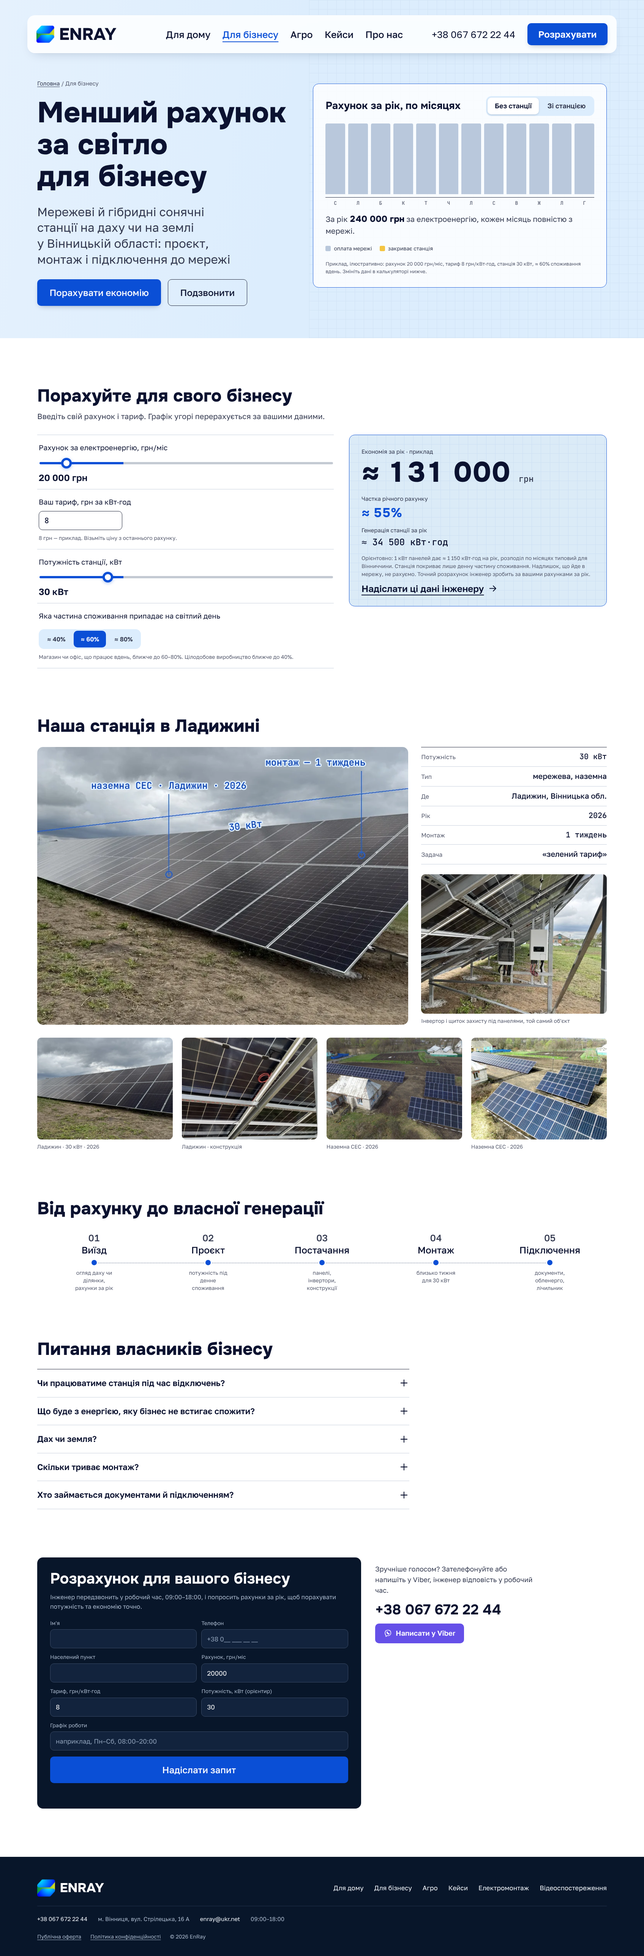
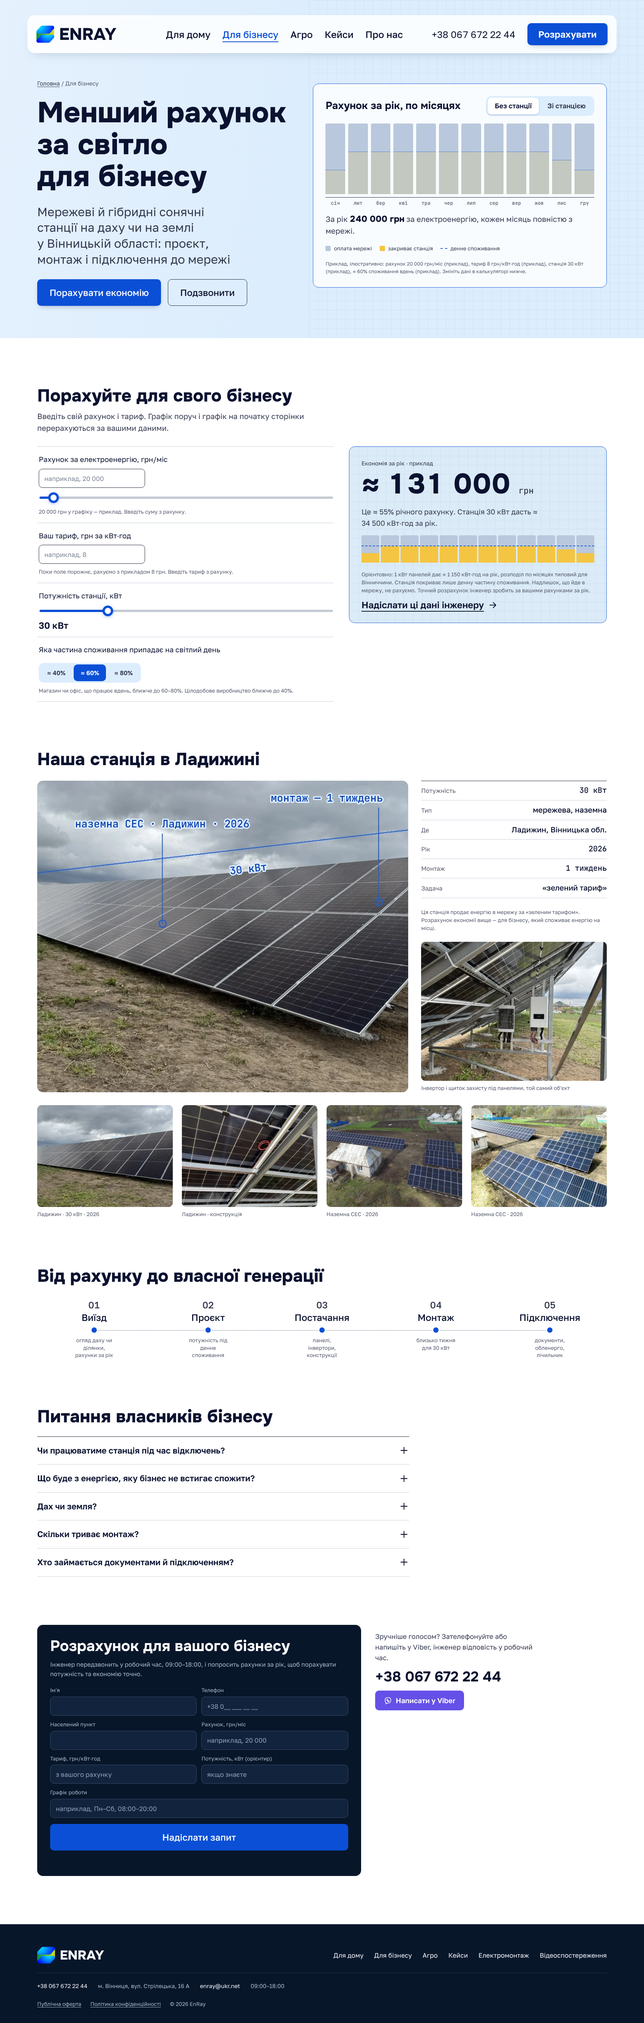
Apply finish-review fixes to Бізнес page
Form receives only visitor-entered values, no hidden tariff fallback,
per-field example labelling, typed bill input synced with slider,
summary built from capped months, daytime-consumption cap line and
station-share ghost, live mini chart beside the calculator, 3-letter
month axis, green-tariff caveat on the Ladyzhyn case, slider fill
follows the thumb, comma-friendly numeric fields.

Claude-Session: https://claude.ai/code/session_01KGfZvnn7nUXhb1RoE8ibfu

Changed region(s): [[0.0, 0.0, 1.0, 0.9946], [0.5625, 0.2176, 0.9375, 0.3108], [0.5625, 0.8081, 0.7812, 0.8702]]

diff --git a/enray/assets/js/scenario.js b/enray/assets/js/scenario.js
@@ -16,6 +16,13 @@
     });
   }
 
+  // Заливка повзунків до положення ручки
+  var fillRange = function (r) { r.style.setProperty('--p', (r.value - r.min) / (r.max - r.min) * 100 + '%'); };
+  document.querySelectorAll('input[type=range]').forEach(function (r) {
+    fillRange(r);
+    r.addEventListener('input', function () { fillRange(r); });
+  });
+
   /* ---------- Дім: доба з відключеннями (приклад графіка, ілюстративно) ---------- */
   var cellsBox = document.getElementById('day-cells');
   if (cellsBox) {
@@ -73,68 +80,115 @@
   var cols = document.getElementById('bill-cols');
   if (cols) {
     var MONTHS = ['Січень', 'Лютий', 'Березень', 'Квітень', 'Травень', 'Червень', 'Липень', 'Серпень', 'Вересень', 'Жовтень', 'Листопад', 'Грудень'];
+    var GEN = ['січня', 'лютого', 'березня', 'квітня', 'травня', 'червня', 'липня', 'серпня', 'вересня', 'жовтня', 'листопада', 'грудня'];
+    var ACC = ['січень', 'лютий', 'березень', 'квітень', 'травень', 'червень', 'липень', 'серпень', 'вересень', 'жовтень', 'листопад', 'грудень'];
     // Типовий розподіл річної генерації по місяцях для Вінниччини (сума = 1)
     var F = [0.025, 0.045, 0.075, 0.11, 0.125, 0.13, 0.14, 0.125, 0.095, 0.07, 0.035, 0.025];
-    var YIELD = 1150;
+    var YIELD = 1150, EX_BILL = 20000, EX_TARIFF = 8;
     var chart = document.querySelector('.bill-chart');
-    var sumOut = document.getElementById('bill-summary');
-    var noteOut = document.getElementById('bill-note');
-    var tbody = document.querySelector('#bill-table tbody');
+    var mini = document.getElementById('bill-mini');
     var el = function (id) { return document.getElementById(id); };
-    var bBill = el('b-bill'), bTariff = el('b-tariff'), bKw = el('b-kw');
-    var mode = 'off', touched = false;
+    var bBill = el('b-bill'), bBillNum = el('b-bill-num'), bTariff = el('b-tariff'), bKw = el('b-kw');
+    var mode = 'off';
+    var mine = { bill: false, tariff: false, kw: false, share: false };
+    var state = { bill: EX_BILL, tariff: EX_TARIFF };
 
-    for (var m = 0; m < 12; m++) {
-      var col = document.createElement('span');
-      col.className = 'bcol';
-      col.style.setProperty('--i', m);
-      col.innerHTML = '<span class="bcol-sun"></span>';
-      cols.appendChild(col);
-    }
+    var build = function (box) {
+      for (var m = 0; m < 12; m++) {
+        var col = document.createElement('span');
+        col.className = 'bcol';
+        col.style.setProperty('--i', m);
+        col.innerHTML = '<span class="bcol-ghost"></span><span class="bcol-sun"></span>';
+        box.appendChild(col);
+      }
+      var cap = document.createElement('span');
+      cap.className = 'cap-line';
+      box.appendChild(cap);
+    };
+    build(cols); if (mini) build(mini);
 
-    var round = function (n, s) { return Math.round(n / s) * s; };
+    var round = function (n, st) { return Math.round(n / st) * st; };
+    var num = function (v) { return Number(String(v).replace(/\s/g, '').replace(',', '.')); };
+
     var compute = function () {
-      var bill = Number(bBill.value);
-      var tariff = Math.max(0.5, Number(String(bTariff.value).replace(',', '.')) || 8);
       var kw = Number(bKw.value);
       var share = Number((document.querySelector('input[name=share]:checked') || {}).value || 0.6);
-      var cons = bill / tariff;                 // кВт·год на місяць
+      var cap = state.bill / state.tariff * share;            // денне споживання, кВт·год/міс
       var months = F.map(function (f) {
         var gen = kw * YIELD * f;
-        var used = Math.min(gen, cons * share);
-        return { gen: gen, save: used * tariff };
+        return { gen: gen, save: Math.min(gen, cap) * state.tariff, capped: gen >= cap };
       });
-      var save = months.reduce(function (s, x) { return s + x.save; }, 0);
-      return { bill: bill, tariff: tariff, kw: kw, share: share, months: months, save: save, gen: kw * YIELD };
+      var save = months.reduce(function (a, x) { return a + x.save; }, 0);
+      return { bill: state.bill, tariff: state.tariff, kw: kw, share: share, months: months, save: save, gen: kw * YIELD };
+    };
+
+    var paint = function (box, r, on) {
+      for (var i = 0; i < 12; i++) {
+        var p = Math.min(100, r.months[i].save / r.bill * 100);
+        box.children[i].style.setProperty('--sun', (on ? p : 0) + '%');
+        box.children[i].style.setProperty('--ghost', (on ? 0 : p) + '%');
+      }
+      box.style.setProperty('--cap', (r.share * 100) + '%');
+      box.classList.toggle('is-on', on);
+    };
+
+    var range = function (r) {
+      var idx = r.months.map(function (x, i) { return x.capped ? i : -1; }).filter(function (i) { return i >= 0; });
+      if (!idx.length) return '';
+      return idx.length === 1 ? 'один місяць (' + ACC[idx[0]] + ')' : 'з ' + GEN[idx[0]] + ' по ' + ACC[idx[idx.length - 1]];
     };
 
     var render = function () {
       var r = compute();
-      el('b-bill-out').textContent = fmt.format(r.bill) + ' грн';
-      el('b-kw-out').textContent = r.kw + ' кВт';
+      var pct = Math.round(r.save / (r.bill * 12) * 100);
+      paint(cols, r, mode === 'on');
+      if (mini) paint(mini, r, true);
       el('b-save').textContent = '≈ ' + fmt.format(round(r.save, 1000));
-      el('b-share-out').textContent = '≈ ' + Math.round(r.save / (r.bill * 12) * 100) + '%';
-      el('b-gen').textContent = '≈ ' + fmt.format(round(r.gen, 100)) + ' кВт·год';
-      var pct = function (v) { return Math.min(100, v / r.bill * 100); };
-      for (var i = 0; i < 12; i++) cols.children[i].style.setProperty('--sun', (mode === 'on' ? pct(r.months[i].save) : 0) + '%');
-      sumOut.innerHTML = mode === 'off'
+      el('b-save-label').textContent = 'Економія за рік · ' + (mine.bill && mine.tariff ? 'за вашими даними' : 'приклад');
+      el('b-sentence').textContent = 'Це ≈ ' + pct + '% річного рахунку. Станція ' + r.kw + ' кВт дасть ≈ ' + fmt.format(round(r.gen, 100)) + ' кВт·год за рік.';
+      el('b-kw-out').textContent = r.kw + ' кВт';
+      var rg = range(r);
+      el('bill-summary').innerHTML = mode === 'off'
         ? 'За рік <b>' + fmt.format(round(r.bill * 12, 1000)) + ' грн</b> за електроенергію, кожен місяць повністю з мережі.'
-        : 'Станція закриває <b>≈ ' + fmt.format(round(r.save, 1000)) + ' грн</b> за рік, найбільше в теплі місяці, коли сонця більше.';
-      noteOut.textContent = (touched ? 'За вашими даними: ' : 'Приклад, ілюстративно: ') + 'рахунок ' + fmt.format(r.bill) + ' грн/міс, тариф ' +
-        String(r.tariff).replace('.', ',') + ' грн/кВт·год, станція ' + r.kw + ' кВт, ≈ ' + Math.round(r.share * 100) +
-        '% споживання вдень. Змініть дані в калькуляторі нижче.';
-      tbody.innerHTML = r.months.map(function (x, i) {
+        : 'Станція закриває <b>≈ ' + fmt.format(round(r.save, 1000)) + ' грн</b> за рік' +
+          (rg ? ': ' + rg + ' — всю денну частину споживання, взимку менше.' : ', найбільше влітку.');
+      var parts = [
+        'рахунок ' + fmt.format(r.bill) + ' грн/міс' + (mine.bill ? '' : ' (приклад)'),
+        'тариф ' + String(r.tariff).replace('.', ',') + ' грн/кВт·год' + (mine.tariff ? '' : ' (приклад)'),
+        'станція ' + r.kw + ' кВт' + (mine.kw ? '' : ' (приклад)'),
+        '≈ ' + Math.round(r.share * 100) + '% споживання вдень' + (mine.share ? '' : ' (приклад)')
+      ];
+      var any = mine.bill || mine.tariff || mine.kw || mine.share;
+      el('bill-note').textContent = (any ? 'Розрахунок: ' : 'Приклад, ілюстративно: ') + parts.join(', ') + '. Змініть дані в калькуляторі нижче.';
+      document.querySelector('#bill-table tbody').innerHTML = r.months.map(function (x, i) {
         return '<tr><td>' + MONTHS[i] + '</td><td>' + fmt.format(round(r.bill, 10)) + '</td><td>' + fmt.format(round(r.bill - x.save, 10)) + '</td></tr>';
       }).join('');
-      var set = function (id, v) { var f = el(id); if (f) f.value = v; };
-      set('f-bill', r.bill); set('f-tariff', String(r.tariff).replace('.', ',')); set('f-kw', r.kw);
+      var set = function (id, ok, v) { var f = el(id); if (f && ok) f.value = v; };
+      set('f-bill', mine.bill, r.bill); set('f-tariff', mine.tariff, String(r.tariff).replace('.', ',')); set('f-kw', mine.kw, r.kw);
     };
 
+    var setBill = function (v, from) {
+      if (!(v >= 1000)) return false;
+      state.bill = v; mine.bill = true;
+      if (from !== 'range') { bBill.value = Math.min(Number(bBill.max), Math.max(Number(bBill.min), v)); fillRange(bBill); }
+      if (from !== 'num') bBillNum.value = v;
+      el('b-bill-hint').textContent = 'Ваш рахунок: ' + fmt.format(v) + ' грн на місяць.';
+      return true;
+    };
+    bBill.addEventListener('input', function () { setBill(Number(bBill.value), 'range'); render(); });
+    bBillNum.addEventListener('input', function () { if (setBill(num(bBillNum.value), 'num')) render(); });
+    bTariff.addEventListener('input', function () {
+      var v = num(bTariff.value);
+      var hint = el('b-tariff-hint');
+      if (bTariff.value === '') { mine.tariff = false; state.tariff = EX_TARIFF; hint.textContent = 'Поки поле порожнє, рахуємо з прикладом 8 грн. Введіть тариф з рахунку.'; render(); return; }
+      if (!(v >= 1 && v <= 30)) { hint.textContent = 'Введіть тариф від 1 до 30 грн за кВт·год. Поки рахуємо з останнім правильним значенням.'; return; }
+      state.tariff = v; mine.tariff = true; hint.textContent = 'Ваш тариф: ' + String(v).replace('.', ',') + ' грн за кВт·год.'; render();
+    });
+    bKw.addEventListener('input', function () { mine.kw = true; render(); });
+    document.querySelectorAll('input[name=share]').forEach(function (i) { i.addEventListener('change', function () { mine.share = true; render(); }); });
     bindToggle(function (md) { mode = md; chart.dataset.mode = md; render(); });
-    [bBill, bTariff, bKw].forEach(function (i) { i.addEventListener('input', function () { touched = true; render(); }); });
-    document.querySelectorAll('input[name=share]').forEach(function (i) { i.addEventListener('change', function () { touched = true; render(); }); });
     if (form) form.addEventListener('enray:reset', render);
-    if (reduce) chart.classList.add('no-motion');
+    if (reduce) { chart.classList.add('no-motion'); if (mini) mini.classList.add('no-motion'); }
     render();
   }
 })();

diff --git a/enray/biz/index.html b/enray/biz/index.html
@@ -74,12 +74,13 @@
       </div>
       <div class="bill-chart" data-mode="off" aria-hidden="true">
         <div class="bill-cols" id="bill-cols"></div>
-        <div class="bill-scale"><span>С</span><span>Л</span><span>Б</span><span>К</span><span>Т</span><span>Ч</span><span>Л</span><span>С</span><span>В</span><span>Ж</span><span>Л</span><span>Г</span></div>
+        <div class="bill-scale"><span data-s="С">січ</span><span data-s="Л">лют</span><span data-s="Б">бер</span><span data-s="К">кві</span><span data-s="Т">тра</span><span data-s="Ч">чер</span><span data-s="Л">лип</span><span data-s="С">сер</span><span data-s="В">вер</span><span data-s="Ж">жов</span><span data-s="Л">лис</span><span data-s="Г">гру</span></div>
       </div>
       <p class="day-summary" id="bill-summary" aria-live="polite"></p>
       <ul class="legend" aria-hidden="true">
         <li><i class="sw sw--grid"></i>оплата мережі</li>
         <li><i class="sw sw--sun"></i>закриває станція</li>
+        <li><i class="sw sw--cap"></i>денне споживання</li>
       </ul>
       <table class="sr-only" id="bill-table">
         <caption>Рахунок по місяцях без станції і зі станцією, грн</caption>
@@ -93,19 +94,20 @@
   <section class="section biz-calc" id="kalkulyator" aria-labelledby="calc-h">
     <div class="rezerv-head">
       <h2 id="calc-h">Порахуйте для свого бізнесу</h2>
-      <p class="lead">Введіть свій рахунок і тариф. Графік угорі перерахується за вашими даними.</p>
+      <p class="lead">Введіть свій рахунок і тариф. Графік поруч і графік на початку сторінки перерахуються за вашими даними.</p>
     </div>
     <div class="rezerv-grid">
       <div class="biz-inputs">
         <div class="bi-row">
-          <label for="b-bill">Рахунок за електроенергію, грн/міс</label>
-          <input id="b-bill" type="range" min="5000" max="200000" step="1000" value="20000">
-          <output for="b-bill" id="b-bill-out" class="bi-val">20 000 грн</output>
+          <label for="b-bill-num">Рахунок за електроенергію, грн/міс</label>
+          <input id="b-bill-num" class="bi-num" type="text" placeholder="наприклад, 20 000" inputmode="numeric" autocomplete="off">
+          <input id="b-bill" type="range" min="5000" max="500000" step="5000" value="20000" aria-label="Рахунок, повзунок">
+          <p class="bi-hint" id="b-bill-hint">20 000 грн у графіку — приклад. Введіть суму з рахунку.</p>
         </div>
         <div class="bi-row">
           <label for="b-tariff">Ваш тариф, грн за кВт·год</label>
-          <input id="b-tariff" class="bi-num" type="number" min="1" max="30" step="0.01" value="8" inputmode="decimal">
-          <p class="bi-hint">8 грн — приклад. Візьміть ціну з останнього рахунку.</p>
+          <input id="b-tariff" class="bi-num" type="text" placeholder="наприклад, 8" inputmode="decimal" autocomplete="off">
+          <p class="bi-hint" id="b-tariff-hint">Поки поле порожнє, рахуємо з прикладом 8 грн. Введіть тариф з рахунку.</p>
         </div>
         <div class="bi-row">
           <label for="b-kw">Потужність станції, кВт</label>
@@ -123,12 +125,12 @@
         </fieldset>
       </div>
       <div class="rezerv-result" aria-live="polite">
-        <p class="rz-label">Економія за рік · приклад</p>
+        <p class="rz-label" id="b-save-label">Економія за рік · приклад</p>
         <p class="rz-kwh"><span id="b-save">≈ 131 000</span> <small>грн</small></p>
-        <p class="rz-label">Частка річного рахунку</p>
-        <p class="rz-bat" id="b-share-out">≈ 55%</p>
-        <p class="rz-label">Генерація станції за рік</p>
-        <p class="bi-gen" id="b-gen">≈ 34 500 кВт·год</p>
+        <p class="bi-sentence" id="b-sentence">Це ≈ 55% річного рахунку. Станція 30 кВт дасть ≈ 34 500 кВт·год за рік.</p>
+        <div class="bill-mini" aria-hidden="true">
+          <div class="bill-cols bill-cols--mini" id="bill-mini"></div>
+        </div>
         <p class="rz-note">Орієнтовно: 1 кВт панелей дає ≈ 1 150 кВт·год на рік, розподіл по місяцях типовий для Вінниччини. Станція покриває лише денну частину споживання. Надлишок, що йде в мережу, не рахуємо. Точний розрахунок інженер зробить за вашими рахунками за рік.</p>
         <a class="link-strong" href="#zayavka">Надіслати ці дані інженеру <svg class="ico"><use href="#i-arrow"/></svg></a>
       </div>
@@ -155,6 +157,7 @@
           <div><dt>Монтаж</dt><dd>1 тиждень</dd></div>
           <div><dt>Задача</dt><dd class="txt">«зелений тариф»</dd></div>
         </dl>
+        <p class="cf-note">Ця станція продає енергію в мережу за «зеленим тарифом». Розрахунок економії вище — для бізнесу, який споживає енергію на місці.</p>
         <figure class="cf-inverter">
           <img src="../assets/plates/biz-detail.webp" width="800" height="600" alt="Інвертор і щиток захисту на стійках під панелями станції в Ладижині" loading="lazy">
           <figcaption>Інвертор і щиток захисту під панелями, той самий об'єкт</figcaption>
@@ -215,9 +218,9 @@
         <div class="field"><label for="f-name">Ім'я</label><input id="f-name" name="name" type="text" autocomplete="name" required></div>
         <div class="field"><label for="f-phone">Телефон</label><input id="f-phone" name="phone" type="tel" autocomplete="tel" inputmode="tel" placeholder="+38 0__ ___ __ __" required></div>
         <div class="field"><label for="f-place">Населений пункт</label><input id="f-place" name="place" type="text" autocomplete="address-level2"></div>
-        <div class="field"><label for="f-bill">Рахунок, грн/міс</label><input id="f-bill" name="bill" type="text" inputmode="numeric" value="20000"></div>
-        <div class="field"><label for="f-tariff">Тариф, грн/кВт·год</label><input id="f-tariff" name="tariff" type="text" inputmode="decimal" value="8"></div>
-        <div class="field"><label for="f-kw">Потужність, кВт (орієнтир)</label><input id="f-kw" name="kw" type="text" inputmode="numeric" value="30"></div>
+        <div class="field"><label for="f-bill">Рахунок, грн/міс</label><input id="f-bill" name="bill" type="text" inputmode="numeric" placeholder="наприклад, 20 000"></div>
+        <div class="field"><label for="f-tariff">Тариф, грн/кВт·год</label><input id="f-tariff" name="tariff" type="text" inputmode="decimal" placeholder="з вашого рахунку"></div>
+        <div class="field"><label for="f-kw">Потужність, кВт (орієнтир)</label><input id="f-kw" name="kw" type="text" inputmode="numeric" placeholder="якщо знаєте"></div>
         <div class="field field--wide"><label for="f-hours">Графік роботи</label><input id="f-hours" name="hours" type="text" placeholder="наприклад, Пн–Сб, 08:00–20:00"></div>
         <button class="btn btn-primary btn-lg" type="submit">Надіслати запит</button>
         <p class="form-msg" id="form-msg" role="status"></p>

diff --git a/enray/assets/css/scenario.css b/enray/assets/css/scenario.css
@@ -172,7 +172,8 @@
 .bi-share legend { margin-bottom: 10px; float: left; width: 100%; }
 .bi-share > * { clear: both; }
 .bi-val { font: 600 clamp(18px, 1.42vw, 24px)/1 var(--f-body); color: var(--ink); font-variant-numeric: tabular-nums; }
-.bi-num { width: min(100%, 220px); min-height: 50px; padding: 0 14px; border: 1.5px solid var(--rule-strong); border-radius: 10px; font: 500 20px/1 var(--f-mono); color: var(--ink); background: var(--paper); }
+.bi-num { width: min(100%, 280px); min-height: 50px; padding: 0 14px; border: 1.5px solid var(--rule-strong); border-radius: 10px; font: 500 20px/1 var(--f-mono); color: var(--ink); background: var(--paper); }
+.bi-num::placeholder { font: 400 17px/1 var(--f-body); color: #7d8596; }
 .bi-num:focus { outline: none; border-color: var(--cobalt); box-shadow: 0 0 0 3px rgba(10,79,214,.18); }
 .bi-hint { font-size: 14px; color: var(--muted); }
 .seg--share { display: inline-flex; width: fit-content; }
@@ -187,4 +188,29 @@
   .bill-cols { height: 120px; gap: 3px; }
   .bill-scale { gap: 3px; font-size: 12px; }
   .seg--share { width: 100%; } .seg--share label { flex: 1; } .seg--share span { justify-content: center; width: 100%; padding: 0 8px; }
+}
+
+/* Бізнес: рівень денного споживання, тінь частки станції, міні-графік */
+.bill-cols { position: relative; }
+.bcol-ghost {
+  position: absolute; left: 0; right: 0; bottom: 0; height: var(--ghost, 0%);
+  border-top: 1.5px dashed var(--cobalt-line); background: rgba(244, 197, 66, .18);
+  transition: height .55s cubic-bezier(.16,1,.3,1); transition-delay: calc(var(--i, 0) * 35ms);
+}
+.cap-line {
+  position: absolute; left: 0; right: 0; bottom: var(--cap, 60%); height: 0;
+  border-top: 2px dashed var(--cobalt-line); opacity: 0; transition: opacity .4s; pointer-events: none;
+}
+.bill-cols.is-on .cap-line { opacity: 1; }
+.no-motion .bcol-ghost { transition: none; }
+.sw--cap { background: none; border-top: 2px dashed var(--cobalt-line); height: 0; width: 18px; border-radius: 0; }
+.bill-scale span::before { content: attr(data-s); display: none; }
+.bill-mini { margin: 12px 0 14px; }
+.bill-cols--mini { height: 72px; gap: 4px; }
+.bi-sentence { font-size: clamp(16px, 1.2vw, 19px); color: var(--ink-2); max-width: 40ch; }
+.cf-note { font-size: 14px; line-height: 1.5; color: var(--muted); }
+
+@media (max-width: 600px) {
+  .bill-scale span { font-size: 0; }
+  .bill-scale span::before { display: inline; font-size: 12px; }
 }
